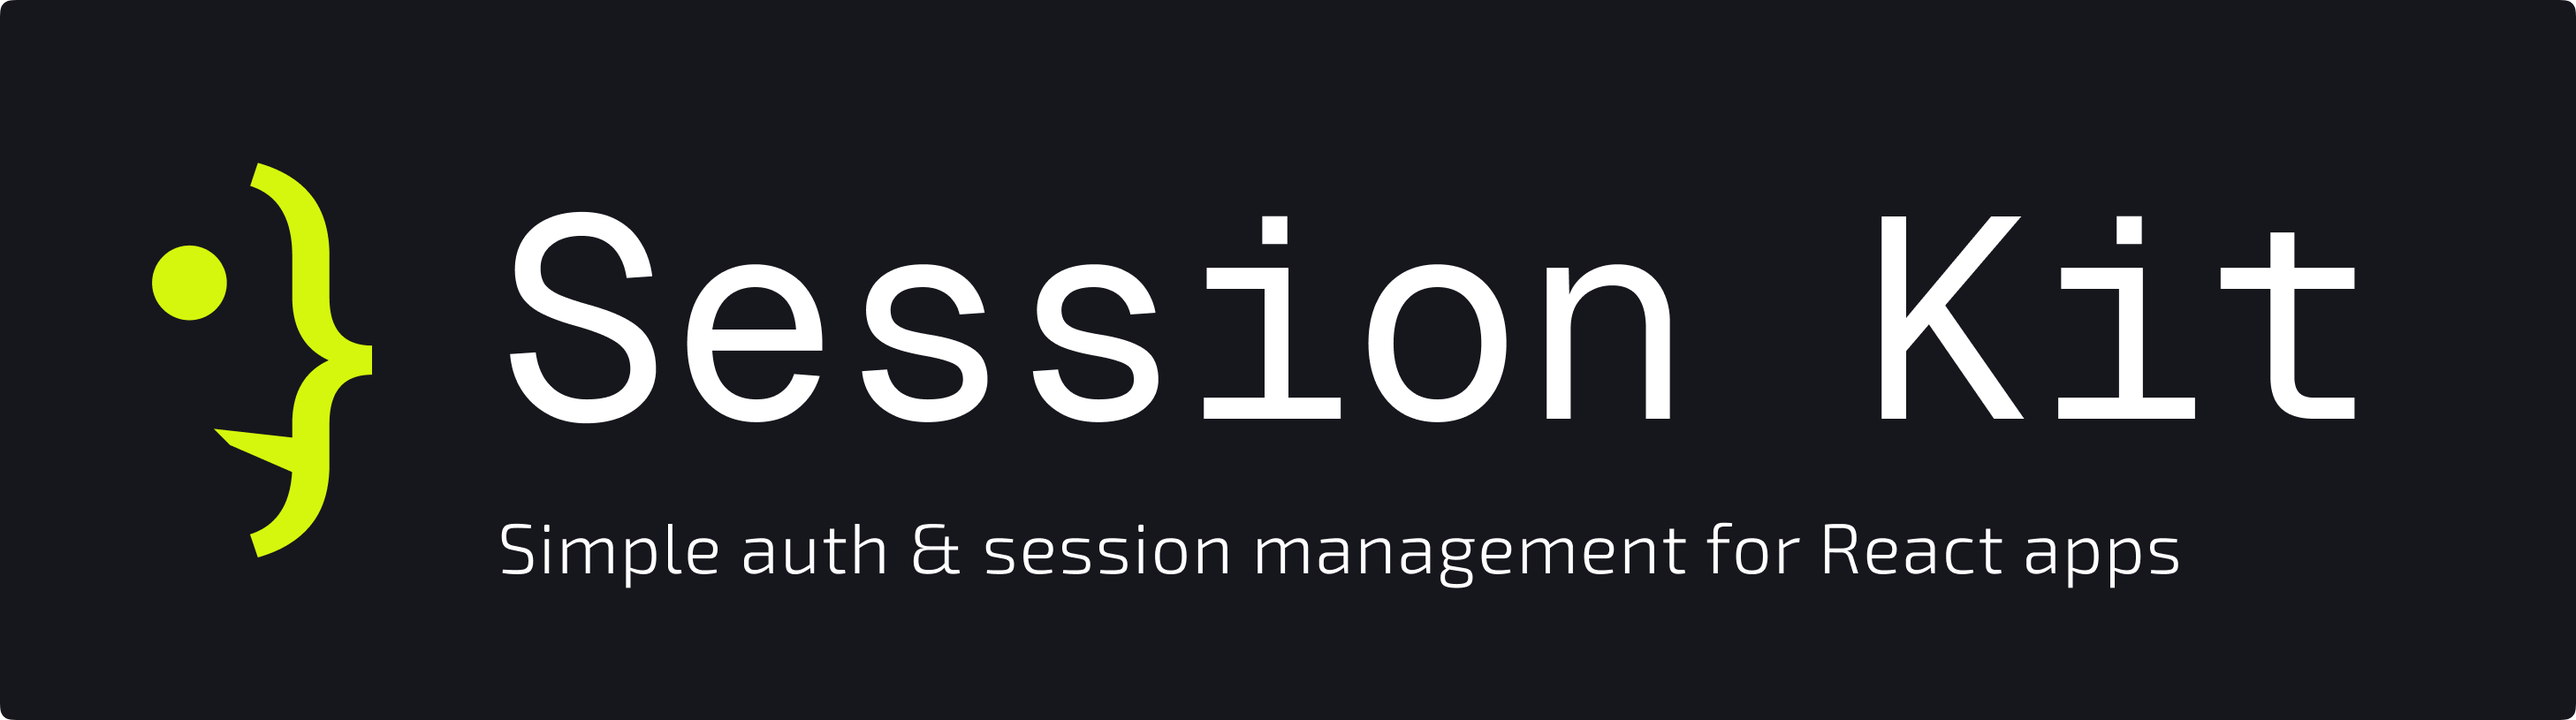
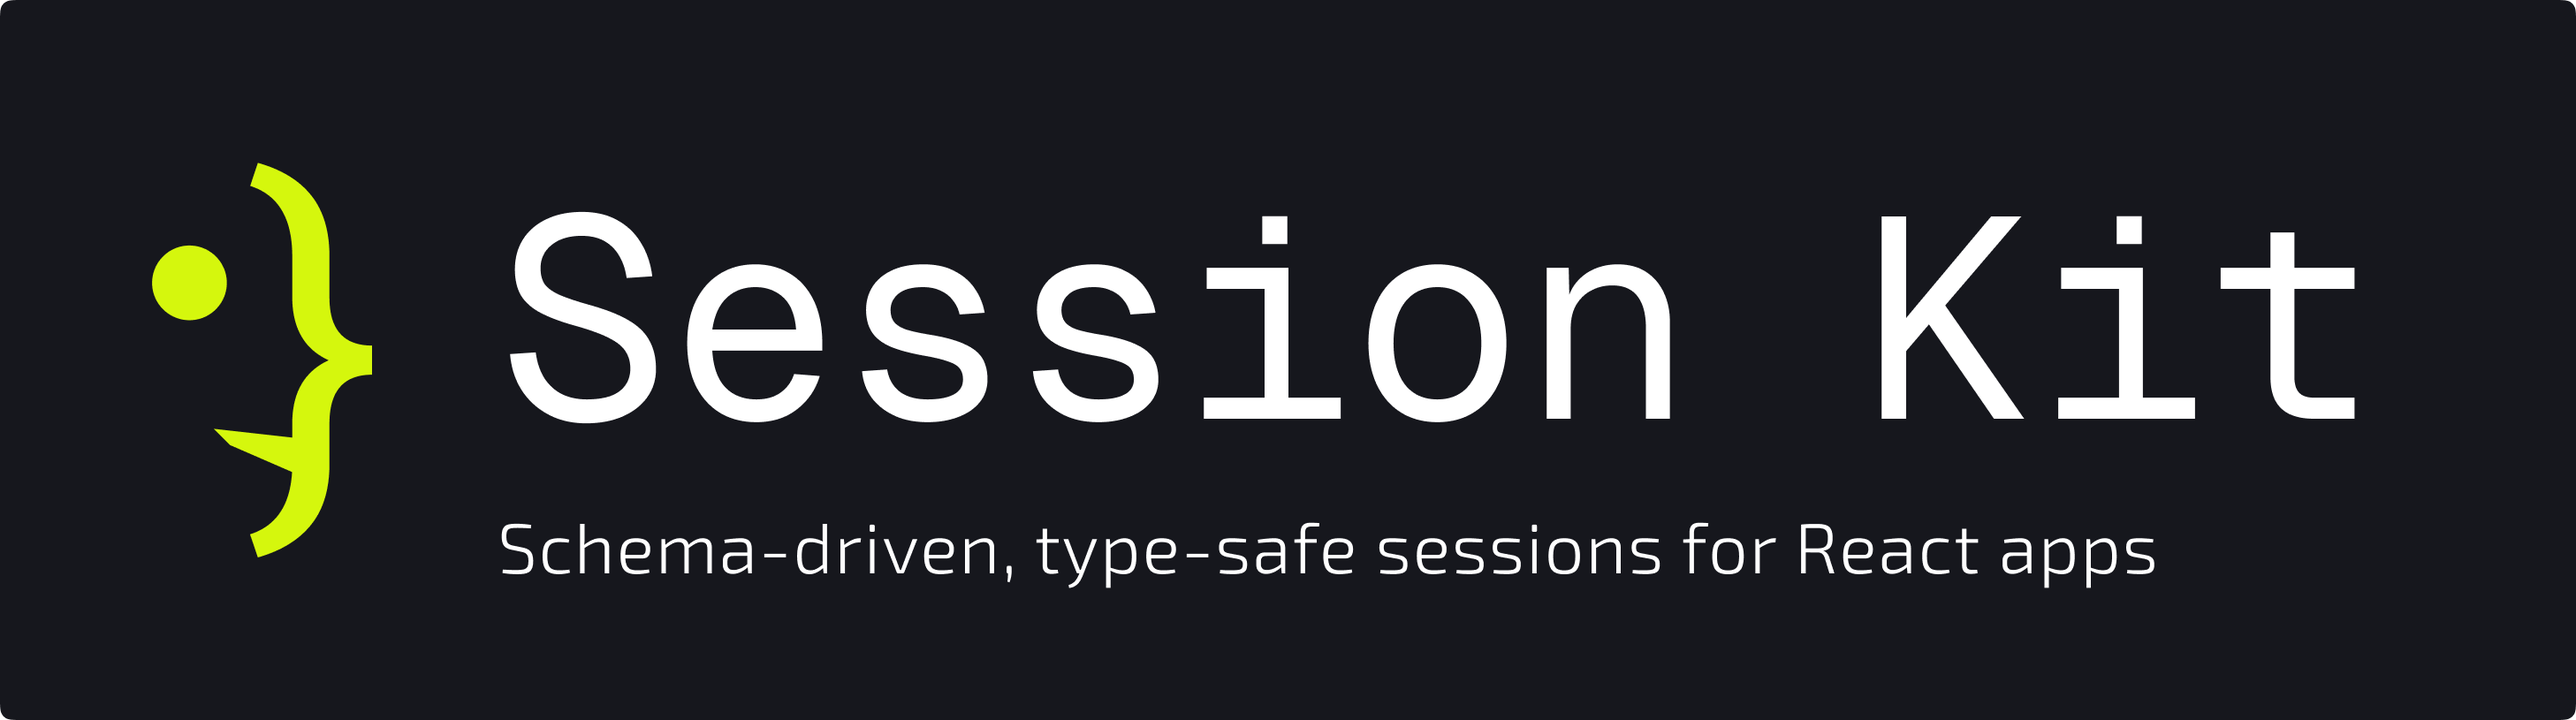
docs: align the package description with the new pitch

Changed region(s): [[0.2185, 0.7055, 0.8429, 0.8282]]

diff --git a/README.md b/README.md
@@ -1,4 +1,4 @@
-![session-kit](https://raw.githubusercontent.com/monarcode/session-kit/main/assets/sk-banner.png)
+![Session kit: schema-driven, type-safe sessions for React apps](https://raw.githubusercontent.com/monarcode/session-kit/main/assets/sk-banner.png)
 
 [![npm](https://img.shields.io/npm/v/@monarcode/session-kit)](https://www.npmjs.com/package/@monarcode/session-kit)
 [![CI](https://github.com/monarcode/session-kit/actions/workflows/ci.yml/badge.svg)](https://github.com/monarcode/session-kit/actions/workflows/ci.yml)
@@ -18,17 +18,18 @@
 **Every sign-in ends in a session. Make yours type-safe and predictable.**
 
 Session kit is the session layer for React apps that have their own backend.
-Hand it the tokens your sign-in endpoint returns, and it saves the session,
+Give it the tokens your sign-in endpoint returns, and it saves the session,
 restores it on reload, refreshes tokens before they expire, keeps every tab in
-step, and guards your routes.
+sync, and guards your routes. It never signs users in: your backend does, and
+Session kit takes over from its response.
 
 It works with TanStack Router, React Router, and Expo Router, renders on the
 server with TanStack Start, Next.js, and React Router, and comes with an
 [Effect](https://effect.website) service and an
 [effetch](https://github.com/monarcode/effetch) plugin.
 
-> **Alpha.** Early development: the API may change between releases, and it
-> isn't ready for production. See the [release notes](./CHANGELOG.md).
+> **Release candidate.** The API is frozen for 0.1, and later 0.1 releases
+> only add to it. See the [release notes](./CHANGELOG.md).
 
 **Documentation: [session-kit.pages.dev](https://session-kit.pages.dev)**
 
@@ -37,29 +38,32 @@ server with TanStack Start, Next.js, and React Router, and comes with an
 To install the package, run the following command:
 
 ```sh
-pnpm add @monarcode/session-kit
+npm install @monarcode/session-kit
 ```
 
-Alpha releases are published to the `latest` distribution tag and may change
-the public API, so pin an exact version and read the
-[release notes](./CHANGELOG.md) before upgrading.
+Release candidates are published to the `latest` distribution tag, so pin an
+exact version and read the [release notes](./CHANGELOG.md) before upgrading.
 
 Any [Standard Schema](https://standardschema.dev) library describes users.
 The examples use Zod:
 
 ```sh
-pnpm add zod
+npm install zod
 ```
 
-Every peer dependency is optional: install React and the router your setup
-uses. [Compatibility](https://session-kit.pages.dev/docs/reference/compatibility) lists the
-supported versions.
+Peer dependencies are optional. Install the ones your setup uses, such as
+React and your router.
+[Compatibility](https://session-kit.pages.dev/docs/reference/compatibility)
+lists the supported versions.
 
 ## Quick start
 
-Session kit never calls your backend. Write the two requests you'd write
-anyway, one that signs in and one that exchanges a refresh token for new
-tokens:
+Session kit never calls your backend. The snippets here are excerpts, without
+their imports and schemas: [Getting started](https://session-kit.pages.dev/docs/getting-started)
+has the full files.
+
+Write the two requests you'd write anyway, one that signs in and one that
+exchanges a refresh token for new tokens:
 
 <!-- from: site/content/docs/(latest)/getting-started.mdx -->
 
@@ -105,8 +109,20 @@ export const auth = createAuth({
 ```
 
 Register the client's type once, and the hooks from
-`@monarcode/session-kit/react` carry your user. Then render by the session's
-status:
+`@monarcode/session-kit/react` carry your user:
+
+<!-- from: site/content/docs/(latest)/getting-started.mdx -->
+
+```tsx
+// Types `AuthProvider` and the hooks with this client.
+declare module "@monarcode/session-kit" {
+  interface Register {
+    auth: typeof auth;
+  }
+}
+```
+
+Then render by the session's status:
 
 <!-- from: site/content/docs/(latest)/getting-started.mdx -->
 
@@ -146,16 +162,18 @@ one step at a time, against a real test backend.
 
 ## Pick your setup
 
-| Setup                                           | Guide                                                                               |
-| ----------------------------------------------- | ----------------------------------------------------------------------------------- |
-| React without a router                          | [Getting started](https://session-kit.pages.dev/docs/getting-started)               |
-| TanStack Router, and TanStack Start in SPA mode | [TanStack Router](https://session-kit.pages.dev/docs/setups/tanstack-router)        |
-| TanStack Start with server rendering            | [TanStack Start](https://session-kit.pages.dev/docs/setups/tanstack-start)          |
-| React Router: declarative, data, framework SPA  | [React Router](https://session-kit.pages.dev/docs/setups/react-router)              |
-| React Router, framework mode with SSR           | [React Router with SSR](https://session-kit.pages.dev/docs/setups/react-router-ssr) |
-| Next.js 16, App Router                          | [Next.js](https://session-kit.pages.dev/docs/setups/next)                           |
-| Expo Router on iOS and Android, SDK 53+         | [Expo Router](https://session-kit.pages.dev/docs/setups/expo)                       |
-| Effect and effetch, with any setup              | [Effect and effetch](https://session-kit.pages.dev/docs/effect)                     |
+Each setup has a guide:
+
+| Setup                                                          | Guide                                                                               |
+| -------------------------------------------------------------- | ----------------------------------------------------------------------------------- |
+| React without a router                                         | [Getting started](https://session-kit.pages.dev/docs/getting-started)               |
+| TanStack Router, and TanStack Start as a single-page app (SPA) | [TanStack Router](https://session-kit.pages.dev/docs/setups/tanstack-router)        |
+| TanStack Start with server rendering                           | [TanStack Start](https://session-kit.pages.dev/docs/setups/tanstack-start)          |
+| React Router: declarative, data, framework SPA                 | [React Router](https://session-kit.pages.dev/docs/setups/react-router)              |
+| React Router, framework mode with server rendering             | [React Router with SSR](https://session-kit.pages.dev/docs/setups/react-router-ssr) |
+| Next.js 16, App Router                                         | [Next.js](https://session-kit.pages.dev/docs/setups/next)                           |
+| Expo Router on iOS and Android, SDK 53+                        | [Expo Router](https://session-kit.pages.dev/docs/setups/expo)                       |
+| Effect and effetch, with any setup                             | [Effect and effetch](https://session-kit.pages.dev/docs/effect)                     |
 
 All but the first have a runnable app in [`examples/`](./examples).
 
